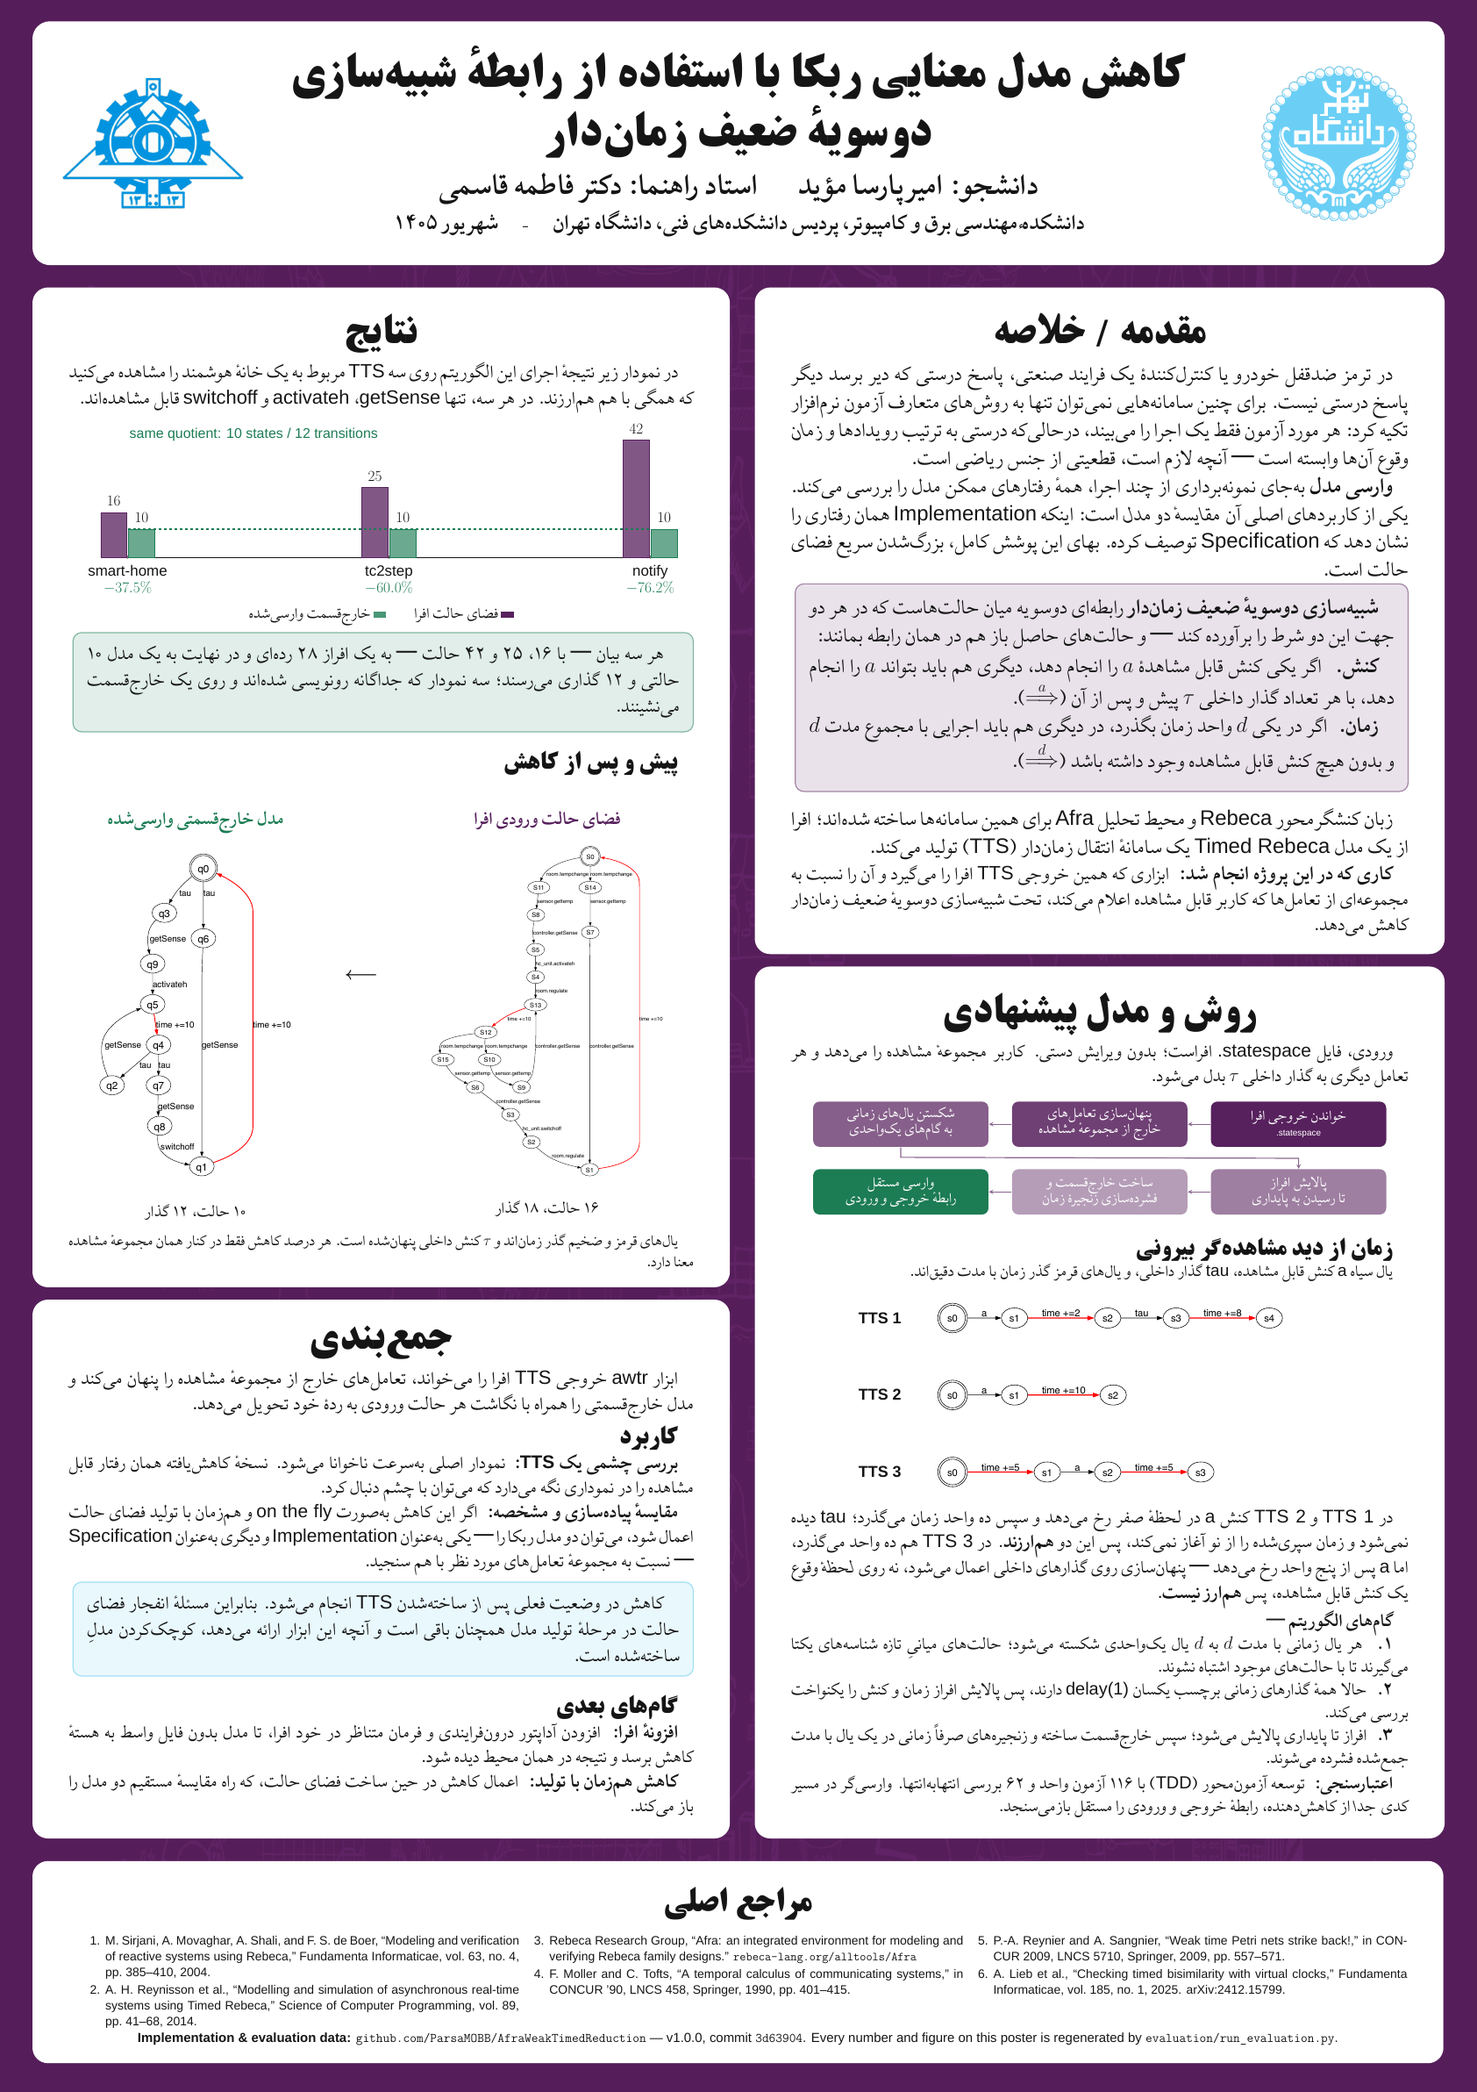
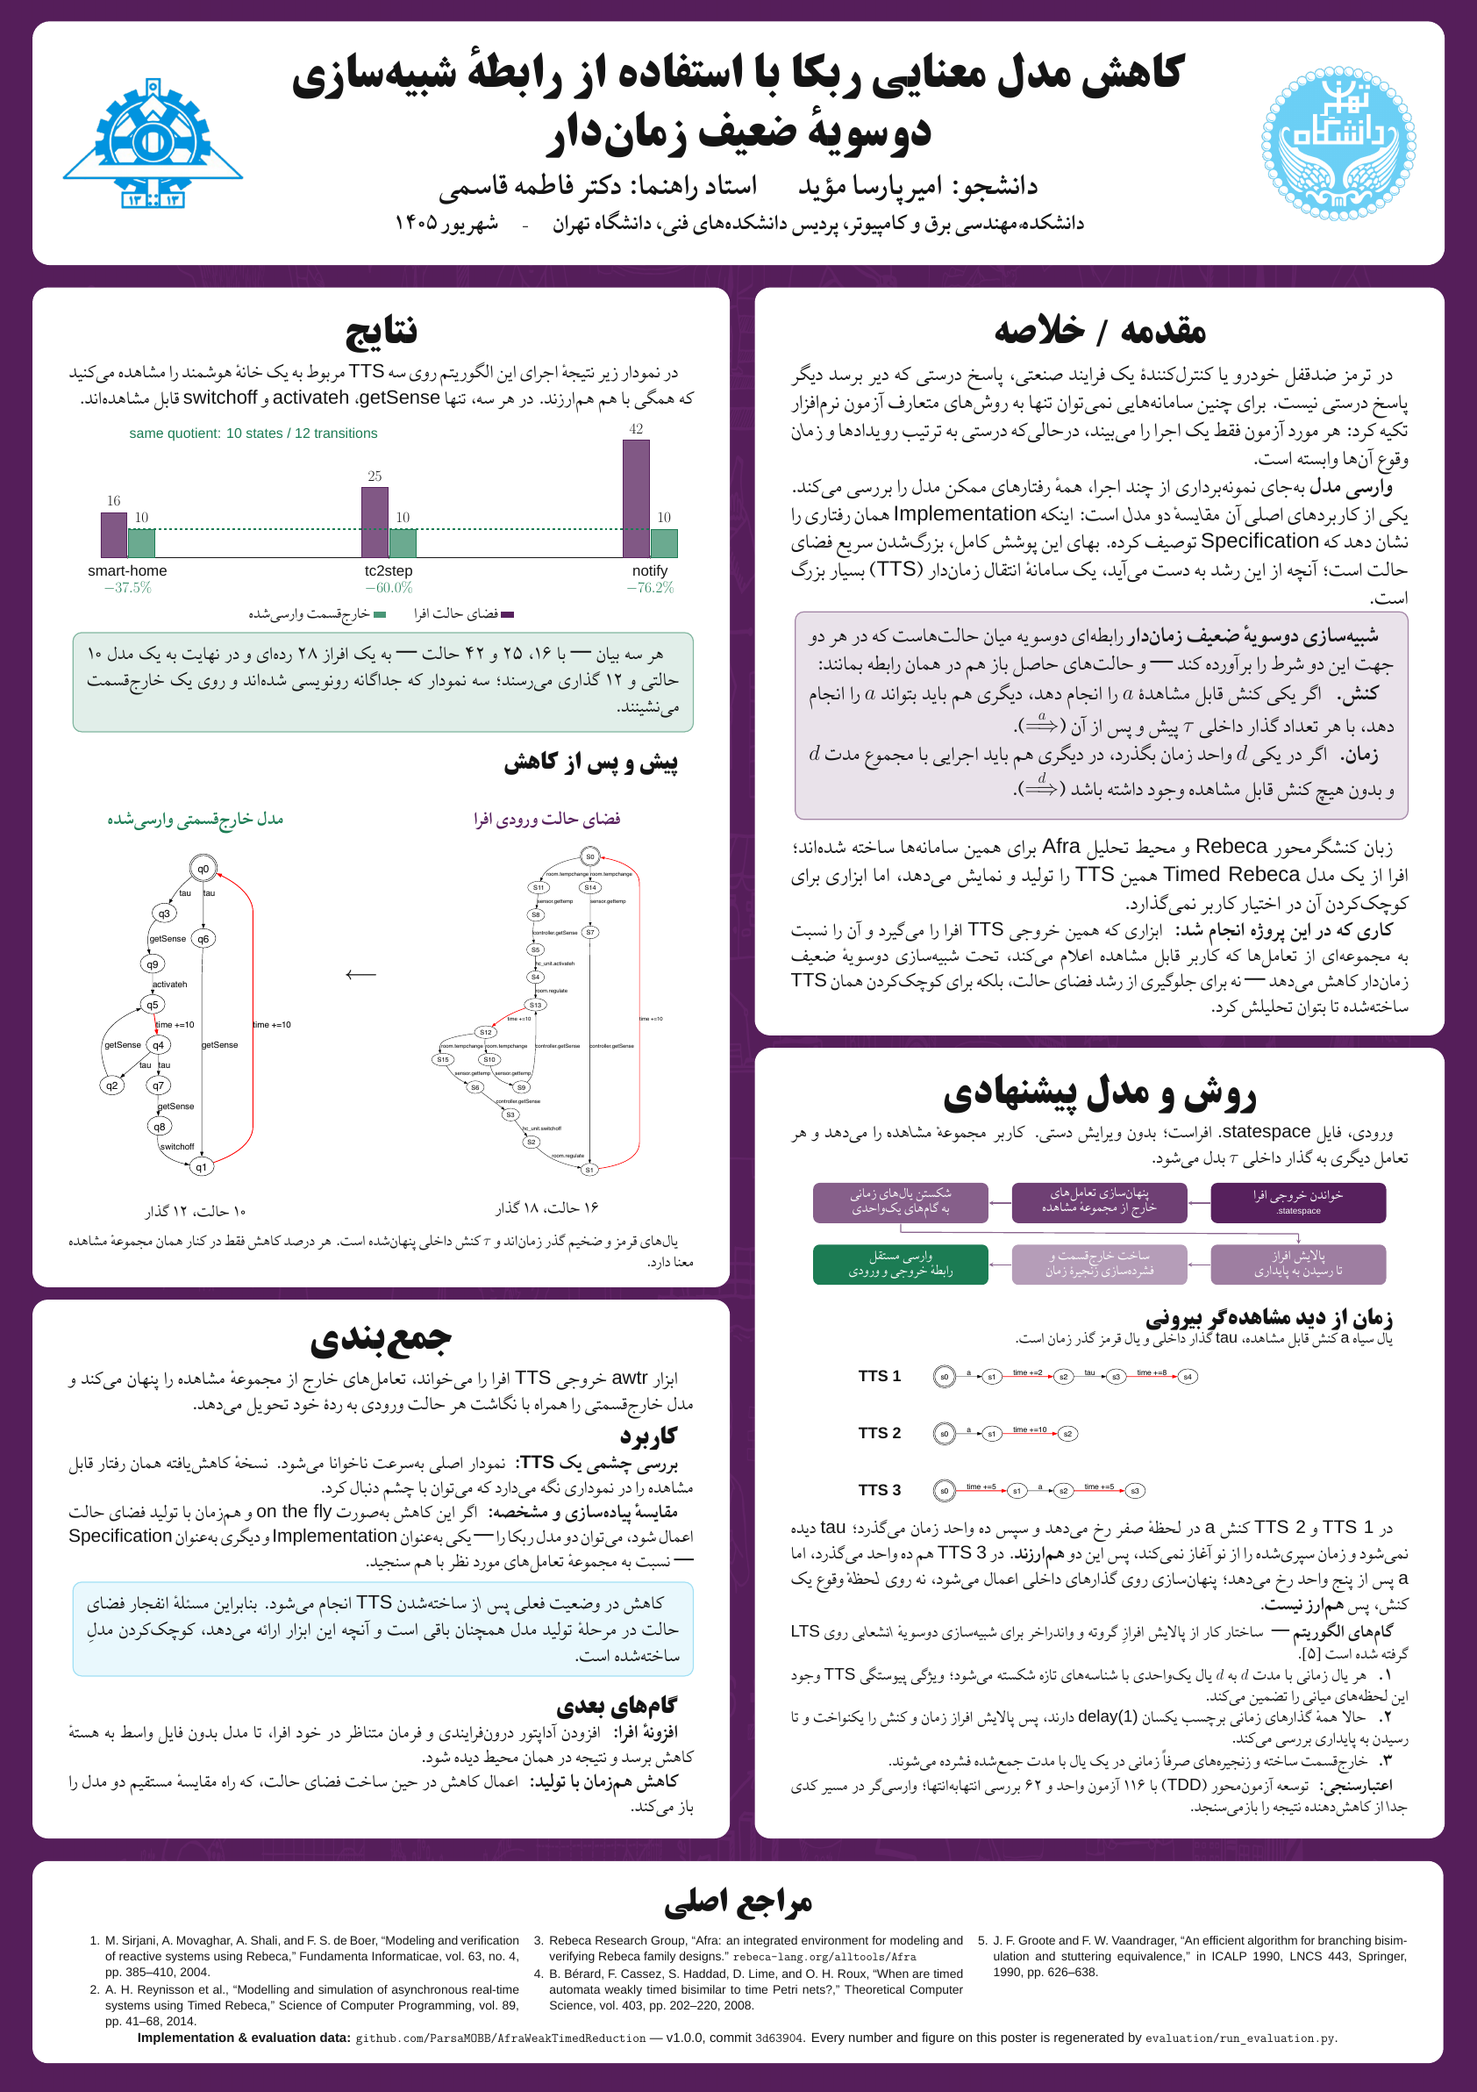
Apply the supervisor's notes to the poster
The abstract panel now says what the state space actually costs: the
growth produces a very large TTS, and the tool shrinks that TTS after it
exists rather than preventing the growth. It also records that Afra
generates and displays such a state space but offers its users no way to
reduce it.

The method panel credits the algorithm: the partition refinement is the
one Groote and Vaandrager gave for branching bisimulation on labelled
transition systems, and the unit split is now justified by the
continuity property of a timed transition system instead of being stated
as a bare step.

References are trimmed to the sources the poster actually leans on —
Rebeca, Timed Rebeca, Afra, Bérard et al. for the definition, and Groote
and Vaandrager for the algorithm. The panel spacing is retuned so the
method column and the reference band no longer collide.

Claude-Session: https://claude.ai/code/session_018Yrcr47UTSVhspqaFVX8yR

Changed region(s): [[0.4941, 0.2794, 0.9881, 0.8691], [0.6793, 0.9312, 0.9572, 0.9622], [0.3705, 0.9312, 0.6485, 0.9622]]

diff --git a/sections/method.tex b/sections/method.tex
@@ -12,10 +12,10 @@
     fill=PosterPurple!#4,
     text=white,
     minimum width=7.05cm,
-    minimum height=1.82cm,
-    inner sep=.14cm
+    minimum height=1.62cm,
+    inner sep=.12cm
   ] (#1) at (#2)
-    {\RTLnodebox{6.55cm}{\centering\fontsize{17}{21}\selectfont #3\par}};
+    {\RTLnodebox{6.55cm}{\centering\fontsize{16}{20}\selectfont #3\par}};
 }
 
 % One labelled row of the time-semantics figure.  Built from minipages, not a
@@ -27,7 +27,7 @@
     \raggedright\fontsize{18}{22}\selectfont\bfseries #1%
   \end{minipage}%
   \begin{minipage}[c]{17.0cm}%
-    \includegraphics[height=2.76cm]{#2}%
+    \includegraphics[height=2.12cm]{#2}%
   \end{minipage}%
 }
 
@@ -44,34 +44,34 @@
   \StageChip{s2}{ 0.00,0}{پنهانسازی تعاملهای\\[-.10cm]خارج از مجموعهٔ مشاهده}{86}
   \StageChip{s3}{-8.00,0}{شکستن یالهای زمانی\\[-.10cm]به گامهای یکواحدی}{72}
   % Row 2, also read from the right.
-  \StageChip{s4}{ 8.00,-2.72}{پالایش افراز\\[-.10cm]تا رسیدن به پایداری}{58}
-  \StageChip{s5}{ 0.00,-2.72}{ساخت خارجقسمت و\\[-.10cm]فشردهسازی زنجیرهٔ زمان}{44}
+  \StageChip{s4}{ 8.00,-2.48}{پالایش افراز\\[-.10cm]تا رسیدن به پایداری}{58}
+  \StageChip{s5}{ 0.00,-2.48}{ساخت خارجقسمت و\\[-.10cm]فشردهسازی زنجیرهٔ زمان}{44}
   \node[
     anchor=center,rounded corners=.26cm,fill=PosterGreen,text=white,
-    minimum width=7.05cm,minimum height=1.82cm,inner sep=.14cm
-  ] (s6) at (-8.00,-2.72)
-    {\RTLnodebox{6.55cm}{\centering\fontsize{17}{21}\selectfont
+    minimum width=7.05cm,minimum height=1.62cm,inner sep=.12cm
+  ] (s6) at (-8.00,-2.48)
+    {\RTLnodebox{6.55cm}{\centering\fontsize{16}{20}\selectfont
        وارسی مستقل\\[-.10cm]رابطهٔ خروجی و ورودی\par}};
 
   \draw[->,PosterPurple!70] (s1) -- (s2);
   \draw[->,PosterPurple!70] (s2) -- (s3);
-  \draw[->,PosterPurple!70] (s3.south) -- ++(0,-.40) -- (8.00,-1.37) -- (s4.north);
+  \draw[->,PosterPurple!70] (s3.south) -- ++(0,-.34) -- (8.00,-1.24) -- (s4.north);
   \draw[->,PosterPurple!70] (s4) -- (s5);
   \draw[->,PosterPurple!70] (s5) -- (s6);
 \end{tikzpicture}
 \end{center}
 
-{\postertitlefont\fontsize{27}{34}\selectfont زمان از دید مشاهدهگر بیرونی\par}
+{\postertitlefont\fontsize{26}{32}\selectfont زمان از دید مشاهدهگر بیرونی\par}
 \vspace{-.06cm}
 
-{\fontsize{19}{25}\selectfont یال سیاه \code{a} کنش قابل مشاهده، \code{tau}
-گذار داخلی، و یالهای قرمز گذر زمان با مدت دقیقاند.\par}
+{\fontsize{18}{23}\selectfont یال سیاه \code{a} کنش قابل مشاهده، \code{tau} گذار
+داخلی و یال قرمز گذر زمان است.\par}
 
 \vspace{.04cm}
 \begin{latin}
 \centering
-\TTSRow{TTS 1}{assets/figures/observable-then-split-delay.pdf}\par\vspace{.30cm}
-\TTSRow{TTS 2}{assets/figures/observable-then-delay.pdf}\par\vspace{.30cm}
+\TTSRow{TTS 1}{assets/figures/observable-then-split-delay.pdf}\par\vspace{.14cm}
+\TTSRow{TTS 2}{assets/figures/observable-then-delay.pdf}\par\vspace{.14cm}
 \TTSRow{TTS 3}{assets/figures/delay-observable-delay.pdf}
 \end{latin}
 \vspace{.08cm}
@@ -79,20 +79,22 @@
 در \code{TTS 1} و \code{TTS 2} کنش \code{a} در لحظهٔ صفر رخ میدهد و سپس ده واحد
 زمان میگذرد؛ \code{tau} دیده نمیشود و زمان سپریشده را از نو آغاز نمیکند، پس
 این دو \textbf{همارزند}. در \code{TTS 3} هم ده واحد میگذرد، اما \code{a} پس از
-پنج واحد رخ میدهد — پنهانسازی روی گذارهای داخلی اعمال میشود، نه روی
-\emph{لحظهٔ} وقوع یک کنش قابل مشاهده، پس \textbf{همارز نیست}.
+پنج واحد رخ میدهد؛ پنهانسازی روی گذارهای داخلی اعمال میشود، نه روی
+\emph{لحظهٔ} وقوع یک کنش، پس \textbf{همارز نیست}.
 
 \vspace{.04cm}
-{\fontsize{20}{26}\selectfont
-\PosterLead{گامهای الگوریتم ---}\par
-\PosterLead{۱.} هر یال زمانی با مدت $d$ به $d$ یال یکواحدی شکسته میشود؛
-حالتهای میانیِ تازه شناسههای یکتا میگیرند تا با حالتهای موجود اشتباه نشوند.\par
+{\fontsize{19}{24}\selectfont
+\PosterLead{گامهای الگوریتم ---} ساختار کار از پالایش افرازِ گروته و واندراخر
+برای شبیهسازی دوسویهٔ \emph{انشعابی} روی \code{LTS} گرفته شده است~[۵].\par
+\PosterLead{۱.} هر یال زمانی با مدت $d$ به $d$ یال یکواحدی با شناسههای تازه
+شکسته میشود؛ ویژگی \emph{پیوستگی} \code{TTS} وجود این لحظههای میانی را تضمین
+میکند.\par
 \PosterLead{۲.} حالا همهٔ گذارهای زمانی برچسب یکسان \code{delay(1)} دارند، پس
-پالایش افراز زمان و کنش را یکنواخت بررسی میکند.\par
-\PosterLead{۳.} افراز تا پایداری پالایش میشود؛ سپس خارجقسمت ساخته و زنجیرههای
-صرفاً زمانی در یک یال با مدت جمعشده فشرده میشوند.\par
-\vspace{.12cm}
+پالایش افراز زمان و کنش را یکنواخت و تا رسیدن به پایداری بررسی میکند.\par
+\PosterLead{۳.} خارجقسمت ساخته و زنجیرههای صرفاً زمانی در یک یال با مدت
+جمعشده فشرده میشوند.\par
+\vspace{.10cm}
 \PosterLead{اعتبارسنجی:} توسعه آزمونمحور (\code{TDD}) با ۱۱۶ آزمون واحد و ۶۲
-بررسی انتهابهانتها. وارسیگر در مسیر کدی \emph{جدا} از کاهشدهنده، رابطهٔ
-خروجی و ورودی را مستقل بازمیسنجد.\par}
+بررسی انتهابهانتها؛ وارسیگر در مسیر کدی \emph{جدا} از کاهشدهنده نتیجه را
+بازمیسنجد.\par}
 }

diff --git a/sections/introduction.tex b/sections/introduction.tex
@@ -3,13 +3,13 @@
 در ترمز ضدقفل خودرو یا کنترلکنندهٔ یک فرایند صنعتی، پاسخ درستی که دیر برسد دیگر
 پاسخ درستی نیست. برای چنین سامانههایی نمیتوان تنها به روشهای متعارف آزمون
 نرمافزار تکیه کرد: هر مورد آزمون فقط یک اجرا را میبیند، درحالیکه درستی به
-ترتیب رویدادها و \emph{زمان} وقوع آنها وابسته است — آنچه لازم است، قطعیتی از
-جنس ریاضی است.
+ترتیب رویدادها و \emph{زمان} وقوع آنها وابسته است.
 
 \textbf{وارسی مدل} بهجای نمونهبرداری از چند اجرا، همهٔ رفتارهای ممکن مدل را
 بررسی میکند. یکی از کاربردهای اصلی آن \emph{مقایسهٔ دو مدل} است: اینکه
 \code{Implementation} همان رفتاری را نشان دهد که \code{Specification} توصیف
-کرده. بهای این پوشش کامل، بزرگشدن سریع فضای حالت است.
+کرده. بهای این پوشش کامل، بزرگشدن سریع فضای حالت است؛ آنچه از این رشد به دست
+میآید، یک سامانهٔ انتقال زماندار (\code{TTS}) بسیار بزرگ است.
 
 \PosterHighlight[PosterPurple]{%
 \textbf{شبیهسازی دوسویهٔ ضعیف زماندار} رابطهای دوسویه میان حالتهاست که در هر
@@ -25,12 +25,14 @@
 مجموع مدت $d$ و بدون هیچ کنش قابل مشاهده وجود داشته باشد ($\overset{d}{\Longrightarrow}$).}
 
 زبان کنشگرمحور \code{Rebeca} و محیط تحلیل \code{Afra} برای همین سامانهها ساخته
-شدهاند؛ افرا از یک مدل \code{Timed Rebeca} یک سامانهٔ انتقال زماندار
-(\code{TTS}) تولید میکند.
+شدهاند؛ افرا از یک مدل \code{Timed Rebeca} همین \code{TTS} را تولید و نمایش
+میدهد، اما ابزاری برای کوچککردن آن در اختیار کاربر نمیگذارد.
 
 \vspace{.05cm}
 {\fontsize{22}{29}\selectfont
 \PosterLead{کاری که در این پروژه انجام شد:} ابزاری که همین خروجی \code{TTS} افرا
 را میگیرد و آن را نسبت به مجموعهای از تعاملها که کاربر قابل مشاهده اعلام
-میکند، تحت شبیهسازی دوسویهٔ ضعیف زماندار کاهش میدهد.\par}
+میکند، تحت شبیهسازی دوسویهٔ ضعیف زماندار کاهش میدهد --- نه برای جلوگیری از
+رشد فضای حالت، بلکه برای کوچککردن همان \code{TTS} ساختهشده تا بتوان تحلیلش
+کرد.\par}
 }

diff --git a/sections/references.tex b/sections/references.tex
@@ -1,5 +1,13 @@
 % Rendered as a full-width footer band, so the entries are split into three
-% manual columns rather than a single tall list.
+% manual columns rather than a single tall list.  The band grows upward from a
+% fixed bottom margin, so the tallest column decides how far it reaches; keep
+% the three columns within a line or two of each other or it will run into the
+% content columns above.
+%
+% Only the sources the poster actually leans on are listed: Rebeca and Timed
+% Rebeca for the modelling language, Afra for the input, Bérard et al. for the
+% definition of weak timed bisimilarity and the TTS properties, and Groote and
+% Vaandrager for the partition-refinement algorithm the method cites as [5].
 \newcommand{\ReferencesContent}{%
 \begin{latin}
 \fontsize{14}{18}\selectfont
@@ -18,18 +26,16 @@
     \item Rebeca Research Group, ``Afra: an integrated environment for modeling
           and verifying Rebeca family designs.''
           \nolinkurl{rebeca-lang.org/alltools/Afra}
-    \item F. Moller and C. Tofts, ``A temporal calculus of communicating
-          systems,'' in \textit{CONCUR '90}, LNCS 458, Springer, 1990,
-          pp.~401--415.
+    \item B. B\'erard, F. Cassez, S. Haddad, D. Lime, and O. H. Roux, ``When are
+          timed automata weakly timed bisimilar to time Petri nets?,''
+          \textit{Theoretical Computer Science}, vol.~403, pp.~202--220, 2008.
   \end{enumerate}
 \end{minipage}\hfill
 \begin{minipage}[t]{.325\linewidth}
   \begin{enumerate}[leftmargin=.85cm,itemsep=.09cm,topsep=0pt,parsep=0pt,start=5]
-    \item P.-A. Reynier and A. Sangnier, ``Weak time Petri nets strike back!,''
-          in \textit{CONCUR 2009}, LNCS 5710, Springer, 2009, pp.~557--571.
-    \item A. Lieb \textit{et al.}, ``Checking timed bisimilarity with virtual
-          clocks,'' \textit{Fundamenta Informaticae}, vol.~185, no.~1, 2025.
-          arXiv:2412.15799.
+    \item J. F. Groote and F. W. Vaandrager, ``An efficient algorithm for
+          branching bisimulation and stuttering equivalence,'' in
+          \textit{ICALP 1990}, LNCS 443, Springer, 1990, pp.~626--638.
   \end{enumerate}
 \end{minipage}
 
